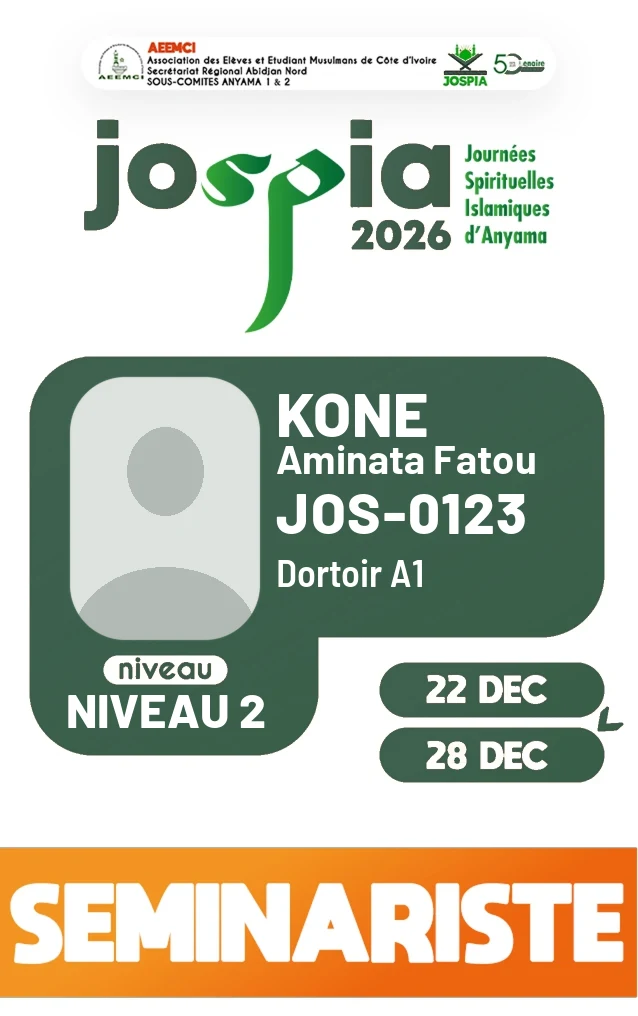
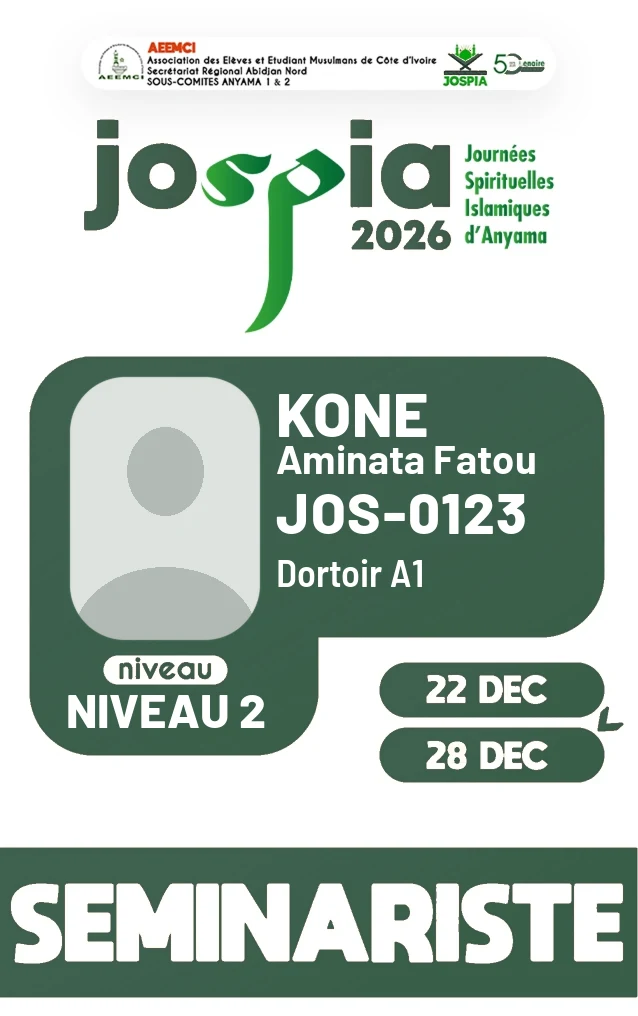
Présentation : titre « badge des séminaristes » et bandeau SÉMINARISTE aux couleurs de chaque proposition
Claude-Session: https://claude.ai/code/session_01KoR57eyK1Tu3mM4eFj1smP

Changed region(s): [[0.0, 0.8238, 1.0, 1.0]]

diff --git a/admin/presentation_administration.php b/admin/presentation_administration.php
@@ -261,7 +261,7 @@ html,body{width:100%;height:100%;max-width:100%;overflow:hidden;overscroll-behav
   $BT = [['petrole', 'Proposition 1', 'Bleu pétrole', '#003E4D'], ['vert', 'Proposition 2', 'Vert profond', '#385747'], ['nuit', 'Proposition 3', 'Bleu nuit', '#1B2F6B']];
   $BA = array_merge([$AC], $BT);
   $OF = [['petrole', 'Proposition 1', 'Bleu pétrole', '#003E4D'], ['bordeaux', 'Proposition 2', 'Bordeaux', '#6B1F33'], ['anthracite', 'Proposition 3', 'Anthracite', '#2B2F33']];
-  afficherVariantes('I-', 'RÉALISATIONS : LE BADGE DU SÉMINARISTE', 'badges', 'seminariste', $BA);
+  afficherVariantes('I-', 'RÉALISATIONS : LE BADGE DES SÉMINARISTES', 'badges', 'seminariste', $BA);
   afficherVariantes('', 'RÉALISATIONS : LE BADGE DES MEMBRES DE COMMISSION', 'badges', 'commission', $BA);
   afficherVariantes('', 'RÉALISATIONS : LE DIPLÔME DES MEMBRES DE COMMISSION', 'diplomes', 'commission', $BA, 'jpg', true);
   afficherVariantes('', 'RÉALISATIONS : LE DIPLÔME DU SÉMINARISTE', 'diplomes', 'seminariste', $BA, 'jpg', true);
